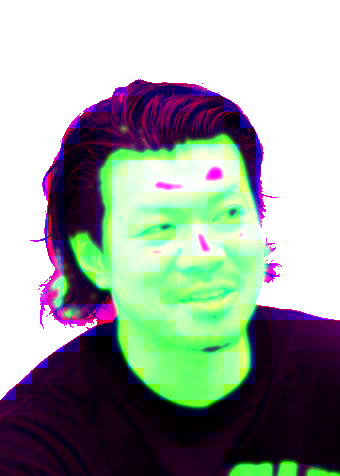
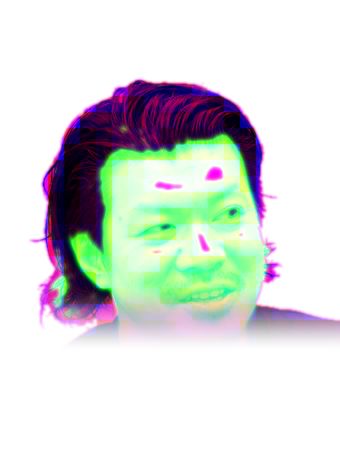
Morph the face into a skull on /whoami
Two sources now, the same photograph with the face swapped, shot from the
same place. Sorting both the same way is what makes this work: the hair
holds still while the face turns over, because a point's rank in one cloud
lands it in roughly the same place in the other.

The shirt is gone. The silhouette holds a steady width down to the chin and
then flares where the shoulders start, so the mask fades out across that
band - the jaw stays, the neck dissolves.

The preprocessing that packs the four channels is now tools/, since it has
to be run again whenever a source changes and its cell size has to stay in
step with the renderer's.

diff --git a/particles.js b/particles.js
@@ -622,12 +622,21 @@
   }
 
   if (canvas.dataset.image) {
-    loadImage(canvas.dataset.image).then(function (img) {
-      if (!img) return;
+    // Several sources morph into each other. They are the same photograph with
+    // the face swapped out, shot from the same place, so sorting both the same
+    // way leaves the hair and shoulders standing still and turns the face over.
+    var sources = canvas.dataset.image.split(',');
+    Promise.all(sources.map(loadImage)).then(function (images) {
       // A face wants to stay sparse. Read as a scatter that happens to describe
       // a face, not as a photograph rebuilt out of dots.
-      var cloud = buildImage(img, Math.round(targetCount() * 0.42));
-      if (cloud && cloud.count > 0) begin([cloud]);
+      var count = Math.round(targetCount() * 0.42);
+      var clouds = [];
+      for (var i = 0; i < images.length; i++) {
+        if (!images[i]) continue;
+        var cloud = buildImage(images[i], count);
+        if (cloud && cloud.count > 0) clouds.push(cloud);
+      }
+      begin(clouds);
     });
   } else {
     Promise.all(MODELS.map(loadBuffer)).then(function (buffers) {

diff --git a/whoami/index.html b/whoami/index.html
@@ -9,7 +9,7 @@
 </head>
 
 <body>
-  <canvas id="bg" aria-hidden="true" data-image="../assets/whoami.png" data-yaw="0" data-sway="0.14"></canvas>
+  <canvas id="bg" aria-hidden="true" data-image="../assets/whoami.png,../assets/skull.png" data-yaw="0" data-sway="0.14"></canvas>
   <main class="doc doc-over">
     <h1>whoami</h1>
 

diff --git a/tools/photo2particles.py b/tools/photo2particles.py
@@ -1,0 +1,118 @@
+"""Turn a portrait photograph into the RGBA asset particles.js samples.
+
+    python3 tools/photo2particles.py assets/whoami.jpg assets/whoami.png --mosaic
+    python3 tools/photo2particles.py assets/skelton.png assets/skull.png
+
+Channels, all of which the sampler reads:
+
+    R  tone, contrast-stretched over the sitter only
+    G  how much of a face this pixel is, which is where the mosaic applies
+    B  tone averaged per mosaic cell
+    A  the cut-out: the sitter, not the wall behind him
+
+The mask is the part that matters. The wall is brighter than the sitter, so
+sampling on tone alone lights the wall and loses the man. It is found by
+flooding the bright region in from the border, so highlights *inside* the face
+stay part of the subject instead of being punched out as holes.
+
+MOSAIC_CELL must stay in step with the constant of the same name in particles.js.
+"""
+import sys
+from collections import deque
+
+import numpy as np
+from PIL import Image
+
+WIDTH, HEIGHT = 340, 476
+MOSAIC_CELL = 16
+WALL = 0.90          # a pixel this bright, reachable from the border, is wall
+# Only the head is wanted. The silhouette holds a steady width down to the chin
+# and then flares where the shoulders start, so the mask is faded out across
+# that band: the jaw stays, the neck dissolves, the shirt goes.
+HEAD_FADE = (0.60, 0.74)
+
+
+def blur(m, passes):
+    for _ in range(passes):
+        p = np.pad(m, 1, mode='edge')
+        m = (p[1:-1, 1:-1] + p[:-2, 1:-1] + p[2:, 1:-1]
+             + p[1:-1, :-2] + p[1:-1, 2:]) / 5
+    return m
+
+
+def subject_mask(lum):
+    h, w = lum.shape
+    bright = lum > WALL
+    wall = np.zeros_like(bright)
+    q = deque()
+
+    def push(y, x):
+        if bright[y, x] and not wall[y, x]:
+            wall[y, x] = True
+            q.append((y, x))
+
+    for x in range(w):
+        push(0, x)
+        push(h - 1, x)
+    for y in range(h):
+        push(y, 0)
+        push(y, w - 1)
+    while q:
+        y, x = q.popleft()
+        for dy, dx in ((1, 0), (-1, 0), (0, 1), (0, -1)):
+            ny, nx = y + dy, x + dx
+            if 0 <= ny < h and 0 <= nx < w:
+                push(ny, nx)
+
+    mask = (~wall).astype(np.float32)
+
+    v = (np.arange(h, dtype=np.float32) + 0.5) / h
+    t = np.clip((v - HEAD_FADE[0]) / (HEAD_FADE[1] - HEAD_FADE[0]), 0, 1)
+    mask *= (1 - t * t * (3 - 2 * t))[:, None]
+
+    return blur(mask, 3)
+
+
+def face_weight(rgb, mask):
+    r, g, b = rgb[:, :, 0], rgb[:, :, 1], rgb[:, :, 2]
+    span = rgb.max(2) - rgb.min(2)
+    skin = ((r > 95) & (g > 40) & (b > 20) & (span > 15)
+            & (np.abs(r - g) > 15) & (r > g) & (r > b)).astype(np.float32)
+    return np.clip(blur(skin, 14) * 2.2, 0, 1) * mask
+
+
+def cell_average(tone):
+    out = tone.copy()
+    h, w = tone.shape
+    for y in range(0, h, MOSAIC_CELL):
+        for x in range(0, w, MOSAIC_CELL):
+            out[y:y + MOSAIC_CELL, x:x + MOSAIC_CELL] = \
+                tone[y:y + MOSAIC_CELL, x:x + MOSAIC_CELL].mean()
+    return out
+
+
+def main(src, dst, mosaic):
+    rgb = np.asarray(Image.open(src).convert('RGB')
+                     .resize((WIDTH, HEIGHT), Image.LANCZOS)).astype(np.float32)
+    lum = (0.2126 * rgb[:, :, 0] + 0.7152 * rgb[:, :, 1]
+           + 0.0722 * rgb[:, :, 2]) / 255
+
+    mask = subject_mask(lum)
+    lo, hi = np.percentile(lum[mask > 0.5], [2, 99])
+    tone = np.clip((lum - lo) / (hi - lo), 0, 1)
+    face = face_weight(rgb, mask) if mosaic else np.zeros_like(tone)
+
+    out = np.zeros((HEIGHT, WIDTH, 4), np.uint8)
+    out[:, :, 0] = (tone * 255).astype(np.uint8)
+    out[:, :, 1] = (face * 255).astype(np.uint8)
+    out[:, :, 2] = (cell_average(tone) * 255).astype(np.uint8)
+    out[:, :, 3] = (mask * 255).astype(np.uint8)
+    Image.fromarray(out, 'RGBA').save(dst, optimize=True)
+
+    print('%s -> %s  subject %.3f  face %.3f  tone %.3f-%.3f'
+          % (src, dst, mask.mean(), face.mean(), lo, hi))
+
+
+if __name__ == '__main__':
+    args = [a for a in sys.argv[1:] if not a.startswith('--')]
+    main(args[0], args[1], '--mosaic' in sys.argv)
